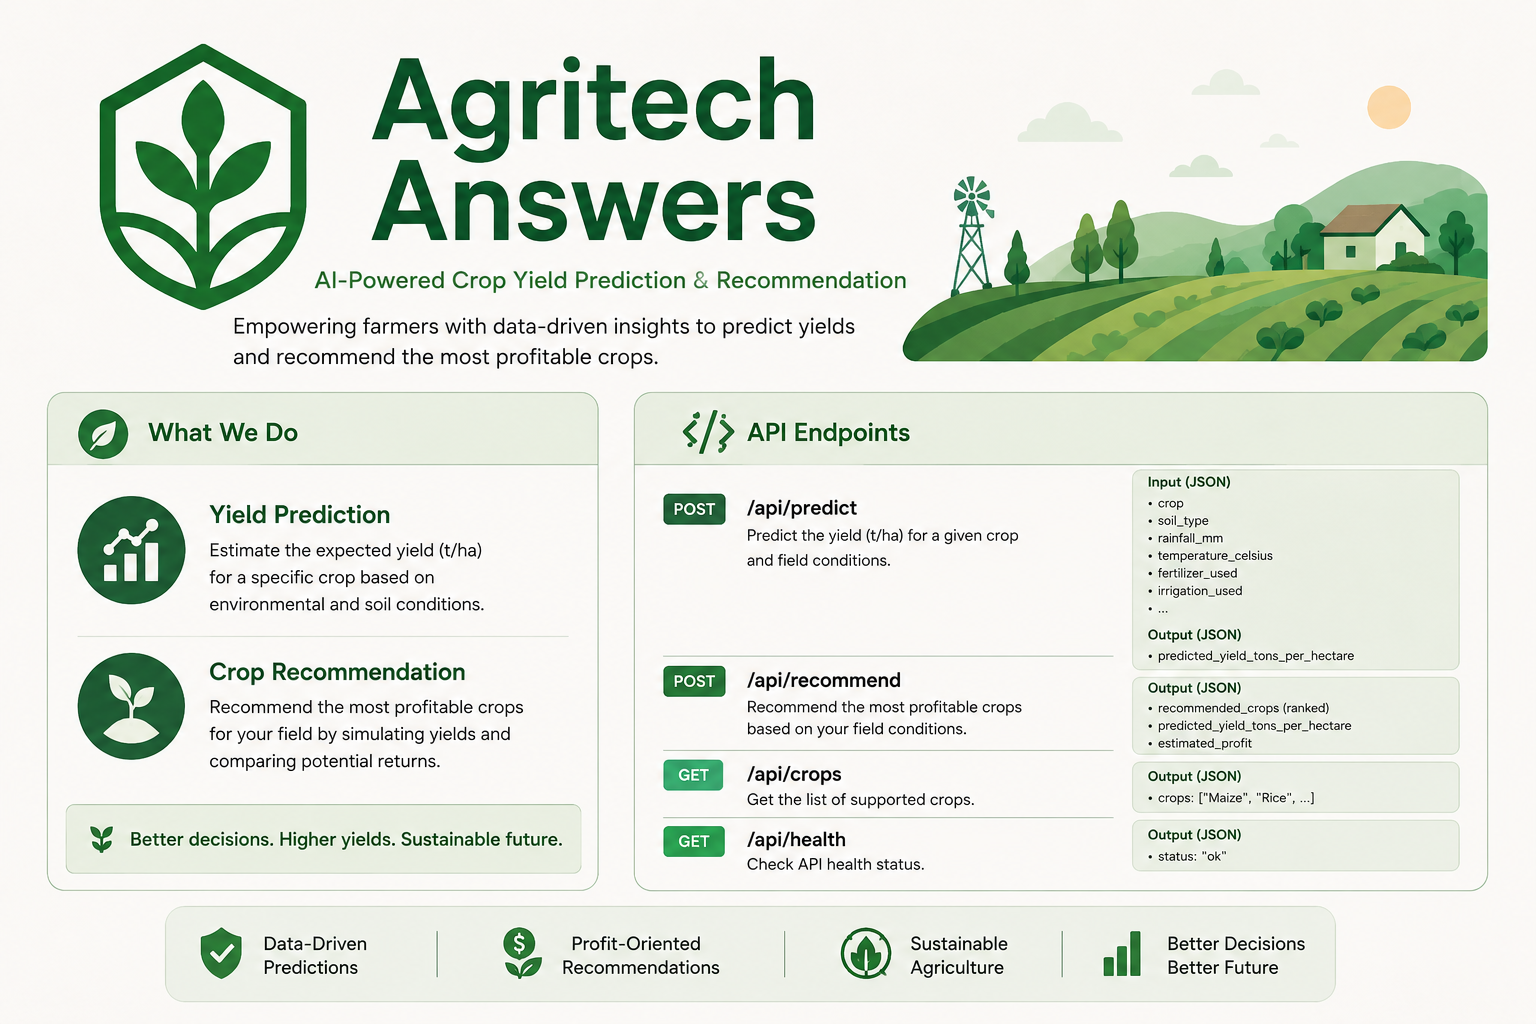
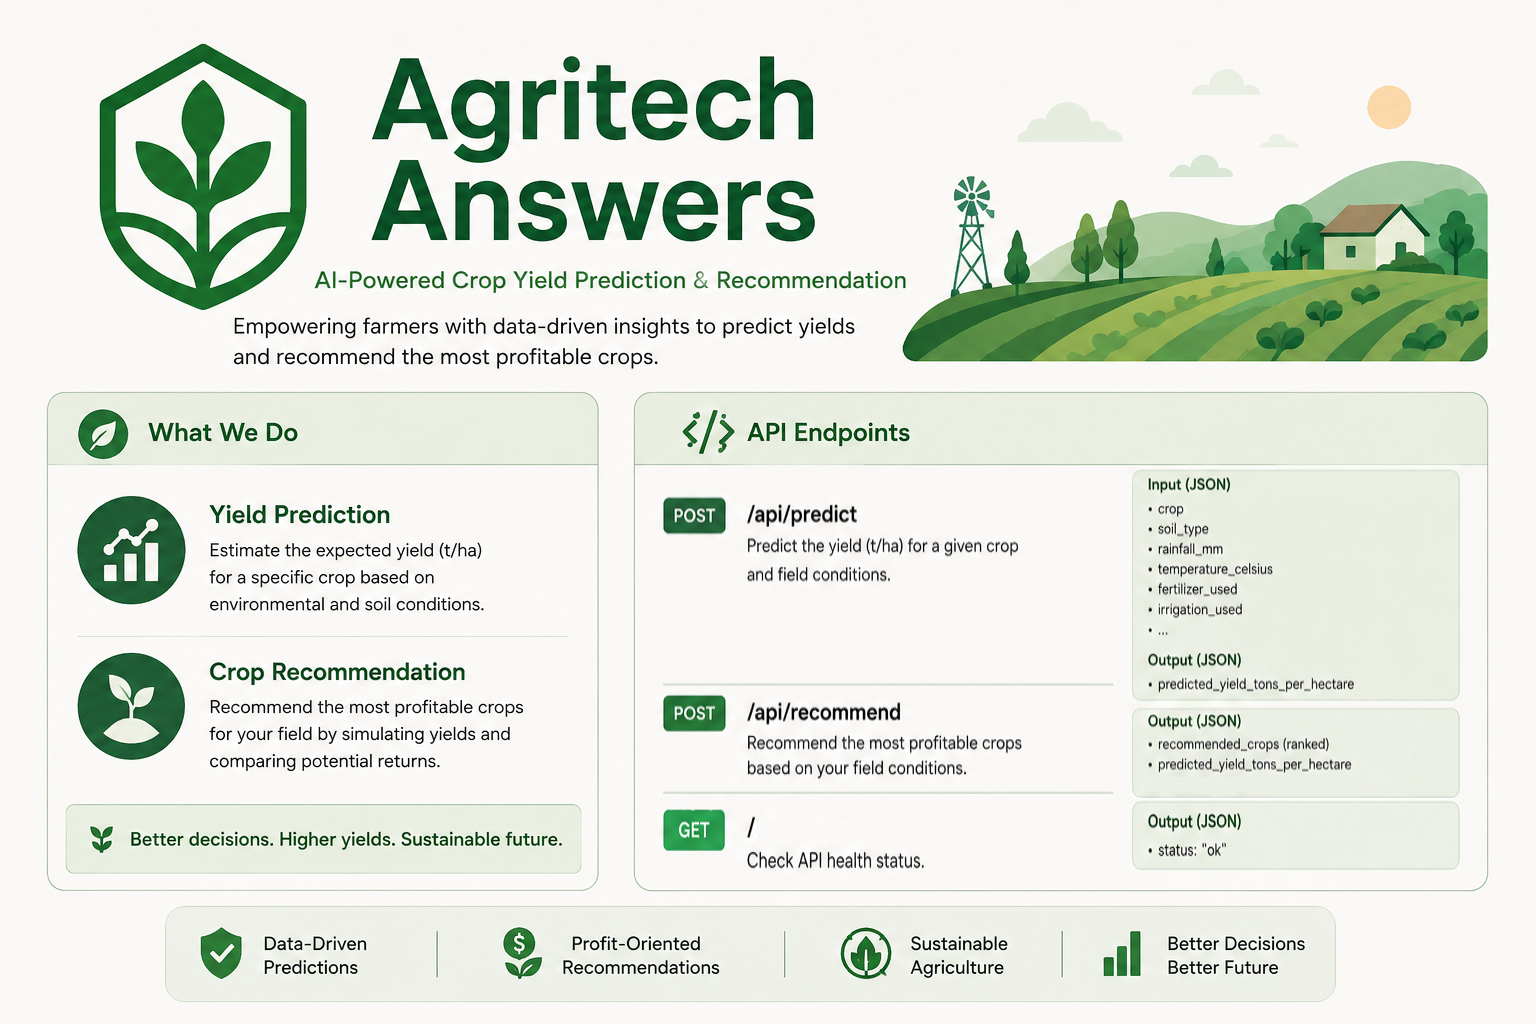
add grouped features plot for ridge importance

Changed region(s): [[0.4062, 0.625, 0.6562, 0.875], [0.75, 0.4688, 0.875, 0.8438], [0.4375, 0.4688, 0.6562, 0.5938]]

diff --git a/ml/src/train_final_model.py b/ml/src/train_final_model.py
@@ -82,30 +82,22 @@ def evaluate(y_true, y_pred) -> dict:
         "rmse": np.sqrt(mean_squared_error(y_true, y_pred)),
     }
 
-# ---------------------------------------------------------------------------
-# Visualize
-# ---------------------------------------------------------------------------
-def coefficient_plot(plot_df:pd.DataFrame, title:str, plot_name:str, output_path:str)-> plt:
-        """ Coefficient plot: positive vs negative, sorted by magnitude ---
-         Diverging colors make the direction of each effect immediately
-         visible (does this feature push yield up or down), while sorting
-         by absolute value (not raw value) keeps the biggest effects at
-         the top regardless of sign -- a plain sort by raw coefficient
-         would bury a strong negative effect at the bottom, far from the
-         strong positive ones at the top.
-        """
-        colors = ["#d62728" if c < 0 else "#2ca02c" for c in plot_df["coefficient"]]
- 
-        plt.figure(figsize=(9, max(4, len(plot_df) * 0.3)))
-        plt.barh(plot_df["feature"], plot_df["coefficient"], color=colors)
-        plt.axvline(0, color="black", linewidth=0.8)
-        plt.xlabel("Coefficient (standardized features)")
-        plt.title(title)
-        plt.tight_layout()
-        coef_chart_path = output_path/plot_name
-        plt.savefig(coef_chart_path, dpi=150)
-        mlflow.log_artifact(coef_chart_path)
-        plt.close()
+def _parent_feature(col_name: str) -> str:
+    """Maps a post-ColumnTransformer column name back to its original
+    feature (e.g. 'cat__Soil_Type_Clay' -> 'Soil_Type'), so one-hot
+    dummies collapse back into one human-readable bar per category
+    instead of fragmenting across many small dummy-level bars."""
+    if col_name.startswith("cat__"):
+        stripped = col_name[len("cat__"):]
+        for cat in CATEGORICAL_FEATURES:
+            if stripped.startswith(cat + "_"):
+                return cat
+        return stripped
+    if col_name.startswith("num__"):
+        return col_name[len("num__"):]
+    if col_name.startswith("bool__"):
+        return col_name[len("bool__"):]
+    return col_name
 
 # ---------------------------------------------------------------------------
 # Main
@@ -177,21 +169,80 @@ def main(output_path:str):
         coef_html = output_path/"final_model_coefficients.html"
         coef_df.drop(columns="abs_coef").to_html(coef_html, index=False)
         mlflow.log_artifact(coef_html)
-        print("\nTop coefficients:")
+        print("\nTop coefficients (raw, one-hot dummies not grouped):")
         print(coef_df.drop(columns="abs_coef").head(10).to_string(index=False))
+        # --- Grouped coefficients: one-hot dummies collapsed to parent -----
+        # IMPORTANT: for a fully one-hot-encoded categorical (all levels,
+        # no drop='first') combined with an intercept, Ridge's L2 penalty
+        # picks the minimum-norm solution among infinitely many equally
+        # valid ones -- and that solution has the dummy coefficients of
+        # each categorical group sum to ~0 BY CONSTRUCTION, regardless of
+        # whether that categorical actually matters. Summing is therefore
+        # meaningless for these groups. The meaningful question is "how
+        # much does switching between levels move the prediction" -- i.e.
+        # the RANGE (max - min) of the coefficients within the group, not
+        # their sum. Numeric/boolean features map to a single raw column
+        # each (no such redundancy), so their "grouped" value is just that
+        # one coefficient, unchanged.
+        #
+        # NOTE: this mixes two different statistics in one column --
+        # numeric/boolean rows are a true SIGNED coefficient (direction
+        # matters), while categorical rows are a non-negative RANGE
+        # (direction doesn't apply, only magnitude). Kept in one table for
+        # a single "which feature matters most" ranking, but the "type"
+        # column below makes the distinction explicit so it's never
+        # mistaken for a like-for-like comparison.
+        grouped_raw = {}
+        for name, coef in zip(coef_df["feature"], coef_df["coefficient"]):
+            parent = _parent_feature(name)
+            grouped_raw.setdefault(parent, []).append(coef)
 
-        
-        # --- Coefficient plot: positive vs negative, sorted by magnitude ---
-        # Diverging colors make the direction of each effect immediately
-        # visible (does this feature push yield up or down), while sorting
-        # by absolute value (not raw value) keeps the biggest effects at
-        # the top regardless of sign -- a plain sort by raw coefficient
-        # would bury a strong negative effect at the bottom, far from the
-        # strong positive ones at the top.
-        coef_plot_df = coef_df.sort_values("abs_coef", ascending=True)  # ascending for horizontal barh top-down
-        coefficient_plot(coef_plot_df, title="Ridge Coefficients — Positive (green) vs Negative (red)",
-                         plot_name="final_model_coefficients.png", output_path=output_path)
- 
+        grouped_coef, grouped_type = {}, {}
+        for parent, values in grouped_raw.items():
+            if len(values) == 1:
+                grouped_coef[parent] = values[0]
+                grouped_type[parent] = "coefficient"
+            else:
+                grouped_coef[parent] = max(values) - min(values)
+                grouped_type[parent] = "range (max-min)"
+
+        grouped_coef_df = pd.DataFrame({
+            "feature": list(grouped_coef.keys()),
+            "coefficient": list(grouped_coef.values()),
+            "type": [grouped_type[f] for f in grouped_coef.keys()],
+        }).assign(abs_coef=lambda d: d["coefficient"].abs()).sort_values("abs_coef", ascending=False)
+
+        grouped_html = output_path/"final_model_coefficients_grouped.html"
+        grouped_coef_df.drop(columns="abs_coef").to_html(grouped_html, index=False)
+        mlflow.log_artifact(grouped_html)
+        print("\nGrouped coefficients (numeric/boolean: signed coefficient; categorical: range across levels):")
+        print(grouped_coef_df.drop(columns="abs_coef").to_string(index=False))
+
+        # --- Coefficient plot: sorted by magnitude, colored by type --------
+        # Numeric/boolean rows are a true signed coefficient (red=negative,
+        # green=positive relationship with yield). Categorical rows are a
+        # non-negative RANGE across levels (see note above) -- coloring
+        # these green/red would falsely imply a "positive/negative
+        # relationship", which doesn't apply to a range. Given a distinct
+        # neutral color (blue) instead, so the two statistic types are
+        # visually distinguishable, not just distinguishable in a table.
+        coef_plot_df = grouped_coef_df.sort_values("abs_coef", ascending=True)  # ascending for horizontal barh top-down
+        colors = [
+            "#3a6ea5" if t.startswith("range") else ("#d62728" if c < 0 else "#2ca02c")
+            for c, t in zip(coef_plot_df["coefficient"], coef_plot_df["type"])
+        ]
+
+        plt.figure(figsize=(9, max(4, len(coef_plot_df) * 0.35)))
+        plt.barh(coef_plot_df["feature"], coef_plot_df["coefficient"], color=colors)
+        plt.axvline(0, color="black", linewidth=0.8)
+        plt.xlabel("Numeric/boolean: signed coefficient (red/green)  |  Categorical: range across levels (blue)")
+        plt.title("Ridge Coefficients — Grouped by Feature")
+        plt.tight_layout()
+        coef_chart_path = output_path/"final_model_coefficients.png"
+        plt.savefig(coef_chart_path, dpi=150)
+        mlflow.log_artifact(coef_chart_path)
+        plt.close()
+
         # --- Zoomed-in version: excludes the top 3 dominant features -------
         # Fertilizer_Used / Rainfall_mm / Irrigation_Used sit an order of
         # magnitude above everything else, which flattens all the minor
@@ -201,10 +252,24 @@ def main(output_path:str):
         # are visible -- useful to confirm none of the "minor" features is
         # secretly larger than the others once the dominant ones are removed.
         top_n_excluded = 3
-        excluded_features = coef_df.sort_values("abs_coef", ascending=False).head(top_n_excluded)["feature"].tolist()
+        excluded_features = grouped_coef_df.sort_values("abs_coef", ascending=False).head(top_n_excluded)["feature"].tolist()
         zoomed_df = coef_plot_df[~coef_plot_df["feature"].isin(excluded_features)]
-        coefficient_plot(zoomed_df, title=f"Ridge Coefficients — Zoomed In (excludes top {top_n_excluded}:",
-                         plot_name="final_model_coefficients_zoomed.png", output_path=output_path)
+        zoomed_colors = [
+            "#3a6ea5" if t.startswith("range") else ("#d62728" if c < 0 else "#2ca02c")
+            for c, t in zip(zoomed_df["coefficient"], zoomed_df["type"])
+        ]
+
+        plt.figure(figsize=(9, max(4, len(zoomed_df) * 0.35)))
+        plt.barh(zoomed_df["feature"], zoomed_df["coefficient"], color=zoomed_colors)
+        plt.axvline(0, color="black", linewidth=0.8)
+        plt.xlabel("Numeric/boolean: signed coefficient (red/green)  |  Categorical: range across levels (blue)")
+        plt.title(f"Ridge Coefficients — Zoomed In (excludes top {top_n_excluded}: "
+                  f"{', '.join(excluded_features)})")
+        plt.tight_layout()
+        coef_zoomed_chart_path = output_path/"final_model_coefficients_zoomed.png"
+        plt.savefig(coef_zoomed_chart_path, dpi=150)
+        mlflow.log_artifact(coef_zoomed_chart_path)
+        plt.close()
 
         # --- Log and register the full pipeline (preprocessing + model) ---
         # Registering the whole pipeline, not just the bare Ridge model,
@@ -235,6 +300,6 @@ def main(output_path:str):
 
 if __name__ == "__main__":
     base_dir = Path(__file__).resolve().parent.parent
-    ml_artifact_folder = base_dir/"ml_artifact"/"final_model_eval"
+    ml_artifact_folder = base_dir/"ml_artifact"/"final_model_eval3"
     ml_artifact_folder.mkdir(parents=True, exist_ok=True)
     main(ml_artifact_folder)

diff --git a/ml/src/track1_ablation.py b/ml/src/track1_ablation.py
@@ -119,6 +119,21 @@ def evaluate(y_true, y_pred) -> dict:
         "rmse": np.sqrt(mean_squared_error(y_true, y_pred)),
     }
 
+def _parent_feature(col_name: str) -> str:
+    """Maps a post-ColumnTransformer column name back to its original
+    feature (e.g. 'cat__Soil_Type_Clay' -> 'Soil_Type'), so one-hot
+    dummies collapse back into one human-readable feature per category."""
+    if col_name.startswith("cat__"):
+        stripped = col_name[len("cat__"):]
+        for cat in CATEGORICAL_FEATURES:
+            if stripped.startswith(cat + "_"):
+                return cat
+        return stripped
+    if col_name.startswith("num__"):
+        return col_name[len("num__"):]
+    if col_name.startswith("bool__"):
+        return col_name[len("bool__"):]
+    return col_name
 
 # ---------------------------------------------------------------------------
 # CV run for one (model, feature_set) combination
@@ -182,8 +197,44 @@ def run_ablation_arm(model_name: str, run_name: str, feature_set: list,
         mlflow.log_metric("std_val_r2", float(np.std(fold_r2)))
 
         # --- Mean +/- std feature importance / coefficients across folds ---
+        # One-hot dummies are grouped back to their parent feature at the
+        # PER-FOLD level, then averaged across folds -- not averaged-then-
+        # grouped. This preserves the correct fold-to-fold correlation
+        # between a categorical's dummy levels, giving a statistically
+        # honest mean/std for the grouped value.
+        #
+        # IMPORTANT: for Ridge specifically, a fully one-hot-encoded
+        # categorical combined with an intercept has its dummy coefficients
+        # sum to ~0 BY CONSTRUCTION (minimum-norm solution among infinitely
+        # many equally valid ones) -- regardless of whether that categorical
+        # actually matters. Summing is therefore meaningless for those
+        # groups. Using the RANGE (max-min) across a group's raw values
+        # instead measures what actually matters: how much switching
+        # between levels moves the prediction. Features that map to a
+        # single raw column (numeric/boolean, and CatBoost's natively
+        # unfragmented categoricals) are unaffected -- range of one value
+        # isn't computed; the single value is used directly, identical to
+        # the old sum-based behavior in that case.
         importance_label = "Feature Importance" if model_name == "catboost" else "Coefficient"
-        importance_df = pd.DataFrame(fold_importances)
+        grouped_fold_importances = []
+        feature_type = {}  # "single" (numeric/bool, or catboost's unfragmented categoricals) vs "range" (ridge one-hot groups)
+        for fold_dict in fold_importances:
+            raw_by_parent = {}
+            for col, val in fold_dict.items():
+                parent = _parent_feature(col)
+                raw_by_parent.setdefault(parent, []).append(val)
+
+            grouped = {}
+            for parent, values in raw_by_parent.items():
+                if len(values) == 1:
+                    grouped[parent] = values[0]
+                    feature_type[parent] = "single"
+                else:
+                    grouped[parent] = max(values) - min(values)
+                    feature_type[parent] = "range"
+            grouped_fold_importances.append(grouped)
+
+        importance_df = pd.DataFrame(grouped_fold_importances)
         importance_summary = pd.DataFrame({
             "mean_value": importance_df.mean(),
             "std_value": importance_df.std(),
@@ -205,13 +256,17 @@ def run_ablation_arm(model_name: str, run_name: str, feature_set: list,
             mlflow.log_artifact(f"{model_name}_{run_name}_importance.csv")
 
         plot_df = importance_summary.sort_values("abs_mean", ascending=True)
-        colors = ["#d62728" if v < 0 else "#2ca02c" for v in plot_df["mean_value"]] \
-            if model_name == "ridge" else None  # CatBoost importances are non-negative by nature
+        colors = [
+            "#3a6ea5" if feature_type.get(feat) == "range"
+            else ("#d62728" if v < 0 else "#2ca02c")
+            for feat, v in zip(plot_df.index, plot_df["mean_value"])
+        ] if model_name == "ridge" else None  # CatBoost importances are non-negative by nature
 
         plt.figure(figsize=(9, max(4, len(plot_df) * 0.3)))
         plt.barh(plot_df.index, plot_df["mean_value"], xerr=plot_df["std_value"], color=colors)
         plt.axvline(0, color="black", linewidth=0.8)
-        plt.xlabel(f"Mean {importance_label} (± std across {N_SPLITS} folds)")
+        xlabel_suffix = " | blue = range across one-hot levels, not a signed coefficient" if model_name == "ridge" else ""
+        plt.xlabel(f"Mean {importance_label} (± std across {N_SPLITS} folds){xlabel_suffix}")
         plt.title(f"{model_name} / {run_name}: {importance_label}")
         plt.tight_layout()
         chart_path = output_path/f"{model_name}_{run_name}_importance.png"
@@ -268,7 +323,7 @@ def log_comparison(model_name: str, native_scores, enriched_scores, native_run_i
 
 def main():
     base_dir = Path(__file__).resolve().parent.parent
-    ml_artifact_folder = base_dir/"ml_artifact"/"trak1_ablation"
+    ml_artifact_folder = base_dir/"ml_artifact"/"trak1_ablation3"
     ml_artifact_folder.mkdir(parents=True, exist_ok=True)
     mlflow.set_experiment(MLFLOW_EXPERIMENT_NAME)
 

diff --git a/ml/src/track2_ablation.py b/ml/src/track2_ablation.py
@@ -126,7 +126,21 @@ def evaluate(y_true, y_pred) -> dict:
         "rmse": np.sqrt(mean_squared_error(y_true, y_pred)),
     }
 
-
+def _parent_feature(col_name: str) -> str:
+    """Maps a post-ColumnTransformer column name back to its original
+    feature (e.g. 'cat__Area_France' -> 'Area'), so one-hot dummies
+    collapse back into one bar per category. Especially important here:
+    Area has 100+ countries one-hot encoded under Ridge, which would
+    otherwise fragment into 100+ separate bars."""
+    if col_name.startswith("cat__"):
+        stripped = col_name[len("cat__"):]
+        for cat in NATIVE_CATEGORICAL:
+            if stripped.startswith(cat + "_"):
+                return cat
+        return stripped
+    if col_name.startswith("num__"):
+        return col_name[len("num__"):]
+    return col_name
 # ---------------------------------------------------------------------------
 # CV run for one (model, feature_set) combination
 # ---------------------------------------------------------------------------
@@ -187,8 +201,31 @@ def run_ablation_arm(model_name: str, run_name: str, feature_set: list,
         mlflow.log_metric("std_val_r2", float(np.std(fold_r2)))
 
         # --- Mean +/- std feature importance / coefficients across folds ---
+        # One-hot dummies are grouped back to their parent feature at the
+        # PER-FOLD level, then averaged across folds -- not averaged-then-
+        # grouped. This preserves the correct fold-to-fold correlation
+        # between a categorical's dummy levels, giving a statistically
+        # honest mean/std for the grouped value.
         importance_label = "Feature Importance" if model_name == "catboost" else "Coefficient"
-        importance_df = pd.DataFrame(fold_importances)
+        grouped_fold_importances = []
+        feature_type = {}  # "single" (numeric/bool, or catboost's unfragmented categoricals) vs "range" (ridge one-hot groups)
+        for fold_dict in fold_importances:
+            raw_by_parent = {}
+            for col, val in fold_dict.items():
+                parent = _parent_feature(col)
+                raw_by_parent.setdefault(parent, []).append(val)
+
+            grouped = {}
+            for parent, values in raw_by_parent.items():
+                if len(values) == 1:
+                    grouped[parent] = values[0]
+                    feature_type[parent] = "single"
+                else:
+                    grouped[parent] = max(values) - min(values)
+                    feature_type[parent] = "range"
+            grouped_fold_importances.append(grouped)
+
+        importance_df = pd.DataFrame(grouped_fold_importances)
         importance_summary = pd.DataFrame({
             "mean_value": importance_df.mean(),
             "std_value": importance_df.std(),
@@ -210,13 +247,17 @@ def run_ablation_arm(model_name: str, run_name: str, feature_set: list,
             mlflow.log_artifact(f"{model_name}_{run_name}_importance.csv")
 
         plot_df = importance_summary.sort_values("abs_mean", ascending=True)
-        colors = ["#d62728" if v < 0 else "#2ca02c" for v in plot_df["mean_value"]] \
-            if model_name == "ridge" else None  # CatBoost importances are non-negative by nature
+        colors = [
+            "#3a6ea5" if feature_type.get(feat) == "range"
+            else ("#d62728" if v < 0 else "#2ca02c")
+            for feat, v in zip(plot_df.index, plot_df["mean_value"])
+        ] if model_name == "ridge" else None  # CatBoost importances are non-negative by nature
 
         plt.figure(figsize=(9, max(4, len(plot_df) * 0.3)))
         plt.barh(plot_df.index, plot_df["mean_value"], xerr=plot_df["std_value"], color=colors)
         plt.axvline(0, color="black", linewidth=0.8)
-        plt.xlabel(f"Mean {importance_label} (± std across {N_SPLITS} folds)")
+        xlabel_suffix = " | blue = range across one-hot levels, not a signed coefficient" if model_name == "ridge" else ""
+        plt.xlabel(f"Mean {importance_label} (± std across {N_SPLITS} folds){xlabel_suffix}")
         plt.title(f"{model_name} / {run_name}: {importance_label}")
         plt.tight_layout()
         chart_path = output_path/f"{model_name}_{run_name}_importance.png"
@@ -272,7 +313,7 @@ def log_comparison(model_name: str, native_scores, enriched_scores, native_run_i
 
 def main():
     base_dir = Path(__file__).resolve().parent.parent
-    ml_artifact_folder = base_dir/"ml_artifact"/"trak2_ablation"
+    ml_artifact_folder = base_dir/"ml_artifact"/"trak2_ablation3"
     ml_artifact_folder.mkdir(parents=True, exist_ok=True)
     
     mlflow.set_experiment(MLFLOW_EXPERIMENT_NAME)
